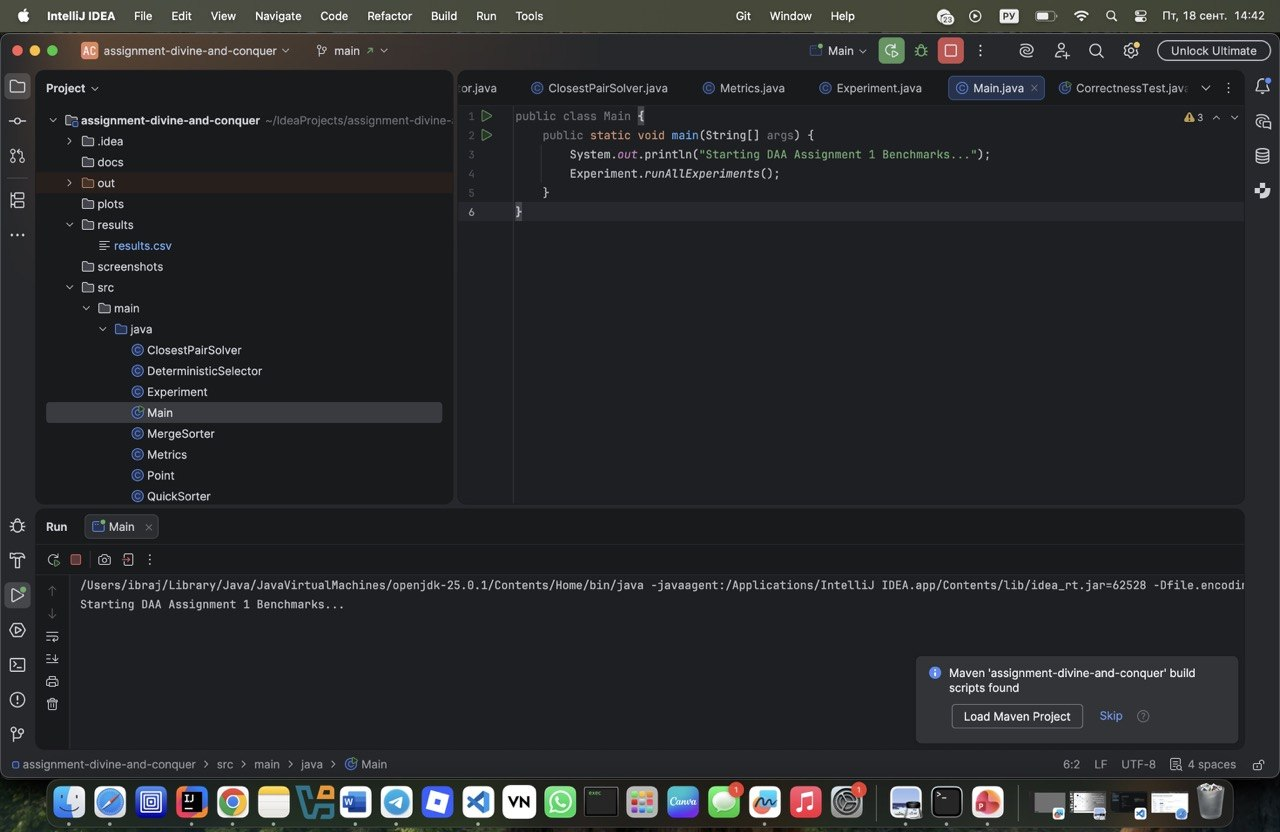
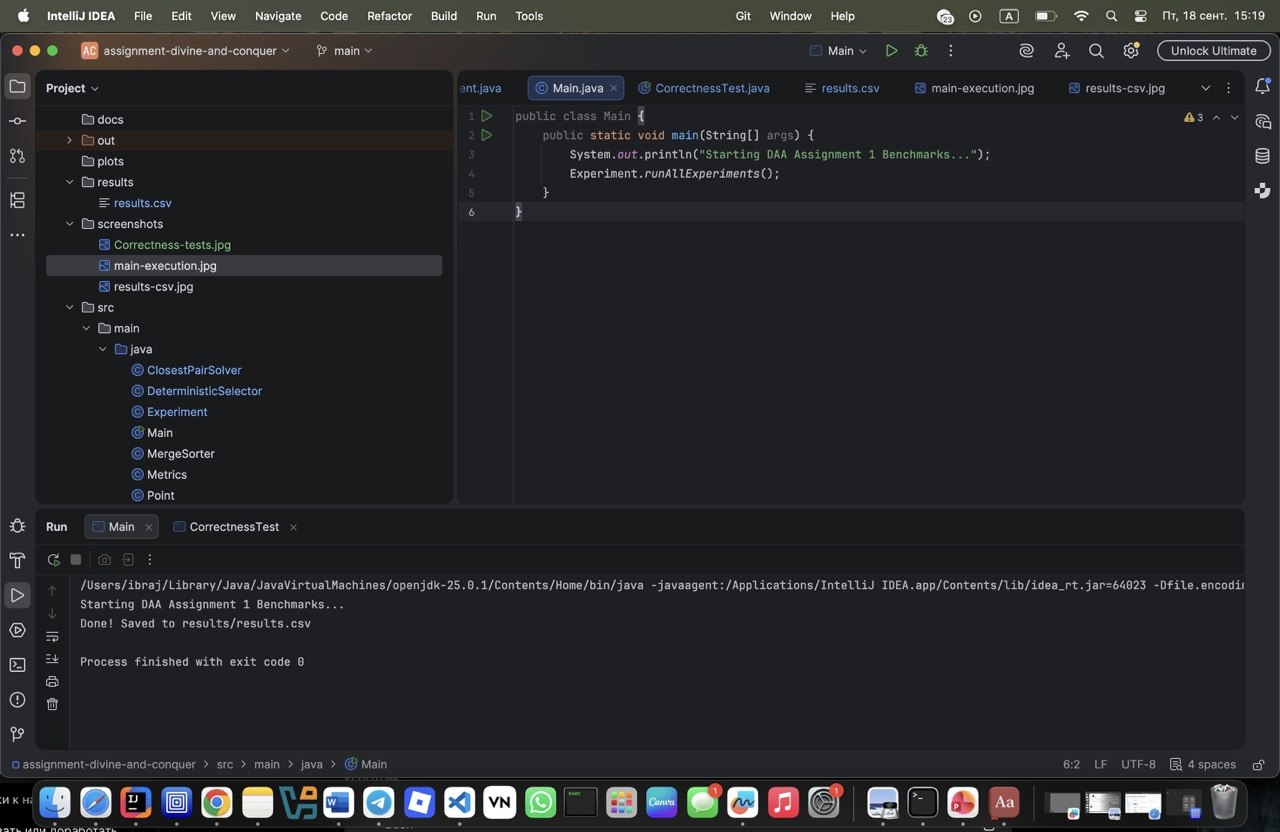
git add . git commit -m "fix: handle edge cases, improve experiments, and add plots"

diff --git a/src/main/java/Experiment.java b/src/main/java/Experiment.java
@@ -1,21 +1,33 @@
 import java.io.FileWriter;
 import java.io.IOException;
 import java.io.PrintWriter;
+import java.util.Locale;
 import java.util.Random;
 
 public class Experiment {
+    private static final int[] SIZES = {100, 1000, 10000, 50000, 100000};
+    private static final String[] TYPES = {"Random", "Sorted", "Reverse-Sorted", "Duplicate-Heavy"};
+
     public static void runAllExperiments() {
         String csvPath = "results/results.csv";
         try (PrintWriter writer = new PrintWriter(new FileWriter(csvPath))) {
             writer.println("Algorithm,InputType,Size,ExecutionTimeMs,MaxRecursionDepth,Comparisons,SwapsOrAllocations");
-            int[] sizes = {100, 1000, 10000, 50000, 100000};
-            String[] types = {"Random", "Sorted", "Reverse-Sorted", "Duplicate-Heavy"};
             Metrics metrics = new Metrics();
             Random rand = new Random(42);
 
-            for (int size : sizes) {
-                for (String type : types) {
+            // Small deterministic warm-up reduces first-run JVM/JIT effects.
+            int[] warmup = generateData(10000, "Random", rand);
+            for (int i = 0; i < 3; i++) {
+                MergeSorter.sort(warmup.clone(), metrics);
+                QuickSorter.sort(warmup.clone(), metrics);
+                DeterministicSelector.select(warmup.clone(), warmup.length / 2, metrics);
+                ClosestPairSolver.findClosestPair(generatePoints(1000, rand), metrics);
+            }
+
+            for (int size : SIZES) {
+                for (String type : TYPES) {
                     int[] data = generateData(size, type, rand);
+
                     int[] copyMS = data.clone();
                     MergeSorter.sort(copyMS, metrics);
                     writeMetric(writer, "MergeSort", type, size, metrics);
@@ -28,33 +40,50 @@ public class Experiment {
                     DeterministicSelector.select(copySel, size / 2, metrics);
                     writeMetric(writer, "DeterministicSelect", type, size, metrics);
                 }
+
                 Point[] points = generatePoints(size, rand);
                 ClosestPairSolver.findClosestPair(points, metrics);
                 writeMetric(writer, "ClosestPair", "Random2D", size, metrics);
             }
             System.out.println("Done! Saved to " + csvPath);
-        } catch (IOException e) { e.printStackTrace(); }
+        } catch (IOException e) {
+            e.printStackTrace();
+        }
     }
 
     private static void writeMetric(PrintWriter writer, String algo, String type, int size, Metrics metrics) {
         double timeMs = metrics.executionTimeNs / 1_000_000.0;
-        writer.printf("%s,%s,%d,%.4f,%d,%d,%d\n", algo, type, size, timeMs, metrics.maxRecursionDepth, metrics.comparisons, metrics.swapsOrAllocations);
+        writer.printf(Locale.US, "%s,%s,%d,%.4f,%d,%d,%d%n",
+                algo, type, size, timeMs, metrics.maxRecursionDepth,
+                metrics.comparisons, metrics.swapsOrAllocations);
     }
 
     private static int[] generateData(int size, String type, Random rand) {
         int[] arr = new int[size];
         switch (type) {
-            case "Random": for (int i = 0; i < size; i++) arr[i] = rand.nextInt(1_000_000); break;
-            case "Sorted": for (int i = 0; i < size; i++) arr[i] = i; break;
-            case "Reverse-Sorted": for (int i = 0; i < size; i++) arr[i] = size - i; break;
-            case "Duplicate-Heavy": for (int i = 0; i < size; i++) arr[i] = rand.nextInt(10); break;
+            case "Random":
+                for (int i = 0; i < size; i++) arr[i] = rand.nextInt(1_000_000);
+                break;
+            case "Sorted":
+                for (int i = 0; i < size; i++) arr[i] = i;
+                break;
+            case "Reverse-Sorted":
+                for (int i = 0; i < size; i++) arr[i] = size - i;
+                break;
+            case "Duplicate-Heavy":
+                for (int i = 0; i < size; i++) arr[i] = rand.nextInt(10);
+                break;
+            default:
+                throw new IllegalArgumentException("Unknown input type: " + type);
         }
         return arr;
     }
 
     private static Point[] generatePoints(int size, Random rand) {
         Point[] points = new Point[size];
-        for (int i = 0; i < size; i++) points[i] = new Point(rand.nextDouble() * 1000, rand.nextDouble() * 1000);
+        for (int i = 0; i < size; i++) {
+            points[i] = new Point(rand.nextDouble() * 1000, rand.nextDouble() * 1000);
+        }
         return points;
     }
 }

diff --git a/src/main/java/DeterministicSelector.java b/src/main/java/DeterministicSelector.java
@@ -6,6 +6,7 @@ public class DeterministicSelector {
         long startTime = System.nanoTime();
         if (a == null || k < 0 || k >= a.length) throw new IllegalArgumentException();
         int[] copy = a.clone();
+        metrics.swapsOrAllocations += copy.length;
         int result = selectRecursive(copy, 0, copy.length - 1, k, metrics);
         metrics.executionTimeNs = System.nanoTime() - startTime;
         return result;
@@ -14,23 +15,29 @@ public class DeterministicSelector {
     private static int selectRecursive(int[] a, int low, int high, int k, Metrics metrics) {
         metrics.enterRecursion();
         if (low == high) {
+            int result = a[low];
             metrics.exitRecursion();
-            return a[low];
+            return result;
         }
+
         int pivot = getMedianOfMedians(a, low, high, metrics);
-        int pivotIndex = partitionAroundPivot(a, low, high, pivot, metrics);
-        if (k == pivotIndex) {
-            metrics.exitRecursion();
-            return a[k];
-        } else if (k < pivotIndex) {
-            int res = selectRecursive(a, low, pivotIndex - 1, k, metrics);
-            metrics.exitRecursion();
-            return res;
-        } else {
-            int res = selectRecursive(a, pivotIndex + 1, high, k, metrics);
+        int[] equalRange = partitionAroundPivot(a, low, high, pivot, metrics);
+        int lt = equalRange[0];
+        int gt = equalRange[1];
+
+        if (k < lt) {
+            int res = selectRecursive(a, low, lt - 1, k, metrics);
             metrics.exitRecursion();
             return res;
         }
+        if (k <= gt) {
+            int res = a[k];
+            metrics.exitRecursion();
+            return res;
+        }
+        int res = selectRecursive(a, gt + 1, high, k, metrics);
+        metrics.exitRecursion();
+        return res;
     }
 
     private static int getMedianOfMedians(int[] a, int low, int high, Metrics metrics) {
@@ -39,8 +46,10 @@ public class DeterministicSelector {
             Arrays.sort(a, low, high + 1);
             return a[low + n / 2];
         }
-        int numGroups = (int) Math.ceil((double) n / 5);
+
+        int numGroups = (n + 4) / 5;
         int[] medians = new int[numGroups];
+        metrics.swapsOrAllocations += numGroups;
         for (int i = 0; i < numGroups; i++) {
             int groupLow = low + i * 5;
             int groupHigh = Math.min(groupLow + 4, high);
@@ -50,23 +59,21 @@ public class DeterministicSelector {
         return selectRecursive(medians, 0, numGroups - 1, numGroups / 2, metrics);
     }
 
-    private static int partitionAroundPivot(int[] a, int low, int high, int pivot, Metrics metrics) {
-        for (int i = low; i <= high; i++) {
-            if (a[i] == pivot) {
-                swap(a, i, high, metrics);
-                break;
-            }
-        }
-        int i = low - 1;
-        for (int j = low; j < high; j++) {
+    private static int[] partitionAroundPivot(int[] a, int low, int high, int pivot, Metrics metrics) {
+        int lt = low;
+        int i = low;
+        int gt = high;
+        while (i <= gt) {
             metrics.comparisons++;
-            if (a[j] <= pivot) {
-                i++;
-                swap(a, i, j, metrics);
+            if (a[i] < pivot) {
+                swap(a, lt++, i++, metrics);
+            } else {
+                metrics.comparisons++;
+                if (a[i] > pivot) swap(a, i, gt--, metrics);
+                else i++;
             }
         }
-        swap(a, i + 1, high, metrics);
-        return i + 1;
+        return new int[]{lt, gt};
     }
 
     private static void swap(int[] a, int i, int j, Metrics metrics) {

diff --git a/test/CorrectnessTest.java b/test/CorrectnessTest.java
@@ -11,38 +11,61 @@ public class CorrectnessTest {
 
     private static void testSorting() {
         Metrics metrics = new Metrics();
-        Random rand = new Random();
-        int[][] testCases = {{}, {5}, {1, 2, 3, 4, 5}, {5, 4, 3, 2, 1}, {2, 2, 2, 2, 2}, rand.ints(500, -1000, 1000).toArray()};
+        Random rand = new Random(42);
+        int[][] testCases = {
+                {}, {5}, {1, 2, 3, 4, 5}, {5, 4, 3, 2, 1},
+                {2, 2, 2, 2, 2}, rand.ints(500, -1000, 1000).toArray()
+        };
         for (int[] tc : testCases) {
             int[] expected = tc.clone();
             Arrays.sort(expected);
-            int[] ms = tc.clone(); MergeSorter.sort(ms, metrics);
-            assert Arrays.equals(ms, expected);
-            int[] qs = tc.clone(); QuickSorter.sort(qs, metrics);
-            assert Arrays.equals(qs, expected);
+
+            int[] ms = tc.clone();
+            MergeSorter.sort(ms, metrics);
+            check(Arrays.equals(ms, expected), "MergeSort failed");
+
+            int[] qs = tc.clone();
+            QuickSorter.sort(qs, metrics);
+            check(Arrays.equals(qs, expected), "QuickSort failed");
         }
     }
 
     private static void testSelect() {
         Metrics metrics = new Metrics();
-        Random rand = new Random();
+        Random rand = new Random(42);
         for (int t = 0; t < 100; t++) {
             int n = rand.nextInt(200) + 1;
             int[] arr = rand.ints(n, -500, 500).toArray();
             int k = rand.nextInt(n);
-            int[] sorted = arr.clone(); Arrays.sort(sorted);
-            assert DeterministicSelector.select(arr, k, metrics) == sorted[k];
+            int[] sorted = arr.clone();
+            Arrays.sort(sorted);
+            int actual = DeterministicSelector.select(arr, k, metrics);
+            check(actual == sorted[k], "Deterministic Select failed at test " + t);
         }
+
+        // Explicit duplicate-heavy cases: important because 3-way partitioning handles them safely.
+        int[] duplicates = new int[1000];
+        Arrays.fill(duplicates, 7);
+        check(DeterministicSelector.select(duplicates, 500, metrics) == 7,
+                "Deterministic Select failed on all-duplicates case");
     }
 
     private static void testClosestPair() {
         Metrics metrics = new Metrics();
-        Random rand = new Random();
+        Random rand = new Random(42);
         for (int t = 0; t < 50; t++) {
             int n = rand.nextInt(100) + 2;
             Point[] points = new Point[n];
-            for (int i = 0; i < n; i++) points[i] = new Point(rand.nextDouble() * 100, rand.nextDouble() * 100);
-            assert Math.abs(ClosestPairSolver.bruteForce(points) - ClosestPairSolver.findClosestPair(points, metrics)) < 1e-6;
+            for (int i = 0; i < n; i++) {
+                points[i] = new Point(rand.nextDouble() * 100, rand.nextDouble() * 100);
+            }
+            double expected = ClosestPairSolver.bruteForce(points);
+            double actual = ClosestPairSolver.findClosestPair(points, metrics);
+            check(Math.abs(expected - actual) < 1e-6, "Closest Pair failed at test " + t);
         }
+    }
+
+    private static void check(boolean condition, String message) {
+        if (!condition) throw new AssertionError(message);
     }
 }

diff --git a/src/main/java/ClosestPairSolver.java b/src/main/java/ClosestPairSolver.java
@@ -1,6 +1,8 @@
-import java.util.ArrayList;
 import java.util.Arrays;
 import java.util.Comparator;
+import java.util.IdentityHashMap;
+import java.util.Set;
+import java.util.ArrayList;
 import java.util.List;
 
 public class ClosestPairSolver {
@@ -24,9 +26,10 @@ public class ClosestPairSolver {
             return Double.POSITIVE_INFINITY;
         }
         Point[] px = points.clone();
+        Point[] py = points.clone();
         Arrays.sort(px, Comparator.comparingDouble(p -> p.x));
-        Point[] py = px.clone();
         Arrays.sort(py, Comparator.comparingDouble(p -> p.y));
+        metrics.swapsOrAllocations += points.length * 2L;
 
         double result = solveRecursive(px, py, metrics);
         metrics.executionTimeNs = System.nanoTime() - startTime;
@@ -37,18 +40,22 @@ public class ClosestPairSolver {
         metrics.enterRecursion();
         int n = px.length;
         if (n <= 3) {
+            double result = bruteForce(px);
             metrics.exitRecursion();
-            return bruteForce(px);
+            return result;
         }
+
         int mid = n / 2;
         Point midPoint = px[mid];
         Point[] lx = Arrays.copyOfRange(px, 0, mid);
         Point[] rx = Arrays.copyOfRange(px, mid, n);
 
-        List<Point> lyList = new ArrayList<>();
-        List<Point> ryList = new ArrayList<>();
+        Set<Point> leftSet = java.util.Collections.newSetFromMap(new IdentityHashMap<>());
+        leftSet.addAll(Arrays.asList(lx));
+        List<Point> lyList = new ArrayList<>(mid);
+        List<Point> ryList = new ArrayList<>(n - mid);
         for (Point p : py) {
-            if (p.x <= midPoint.x) lyList.add(p);
+            if (leftSet.contains(p)) lyList.add(p);
             else ryList.add(p);
         }
 
@@ -62,9 +69,8 @@ public class ClosestPairSolver {
         }
 
         double stripMin = delta;
-        int stripSize = strip.size();
-        for (int i = 0; i < stripSize; i++) {
-            for (int j = i + 1; j < stripSize && (strip.get(j).y - strip.get(i).y) < stripMin; j++) {
+        for (int i = 0; i < strip.size(); i++) {
+            for (int j = i + 1; j < strip.size() && (strip.get(j).y - strip.get(i).y) < stripMin; j++) {
                 metrics.comparisons++;
                 double dist = strip.get(i).distanceTo(strip.get(j));
                 if (dist < stripMin) stripMin = dist;
